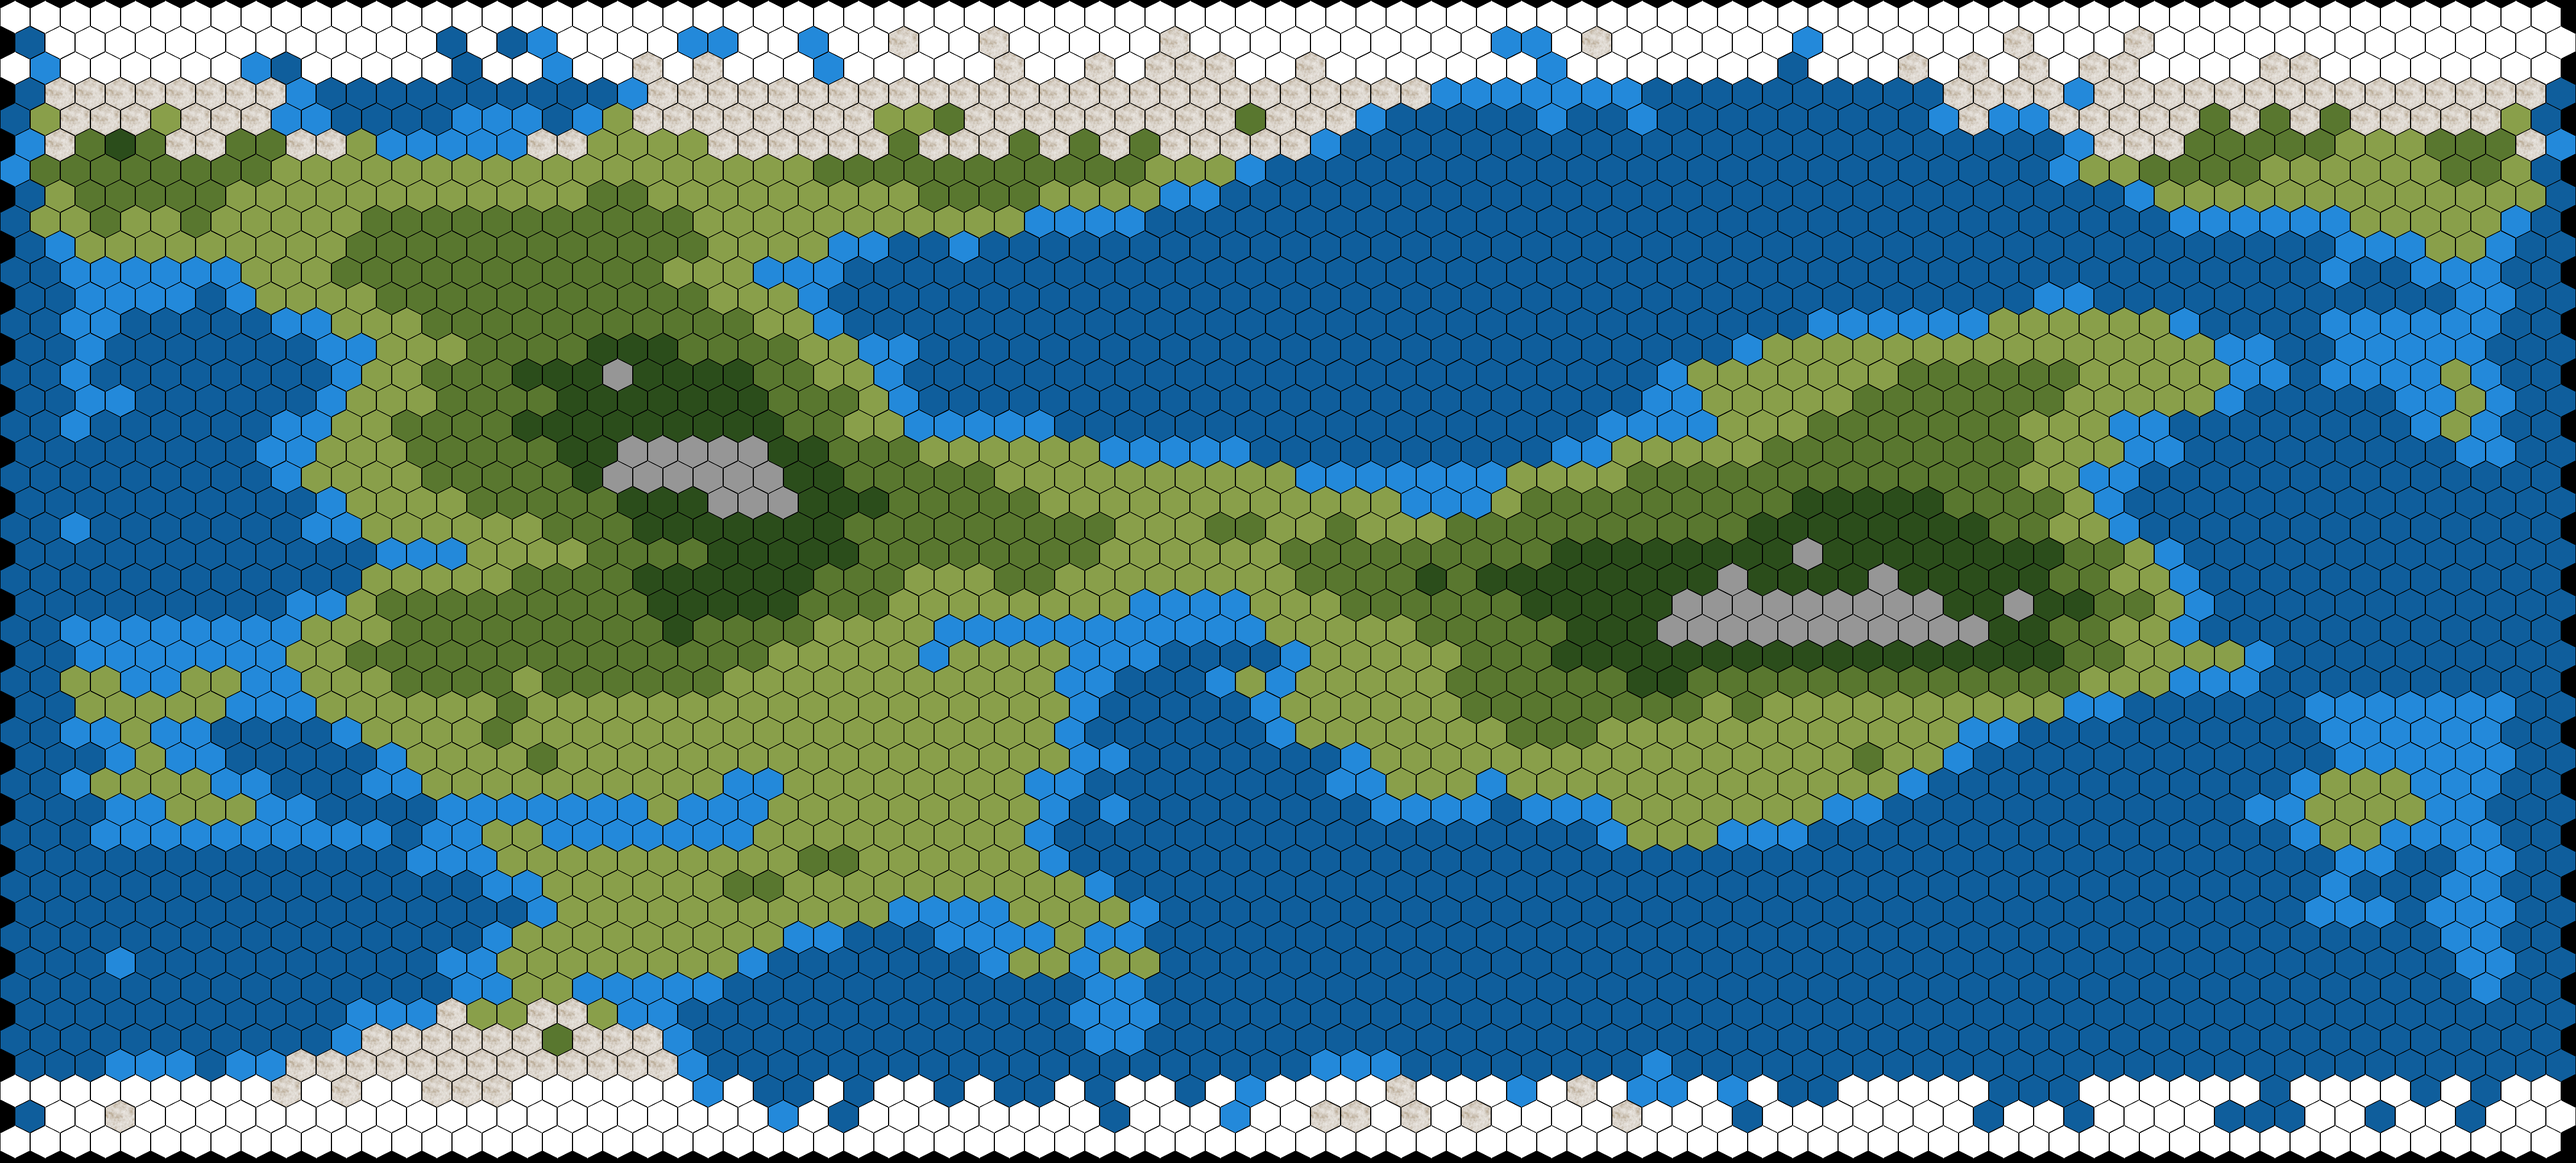
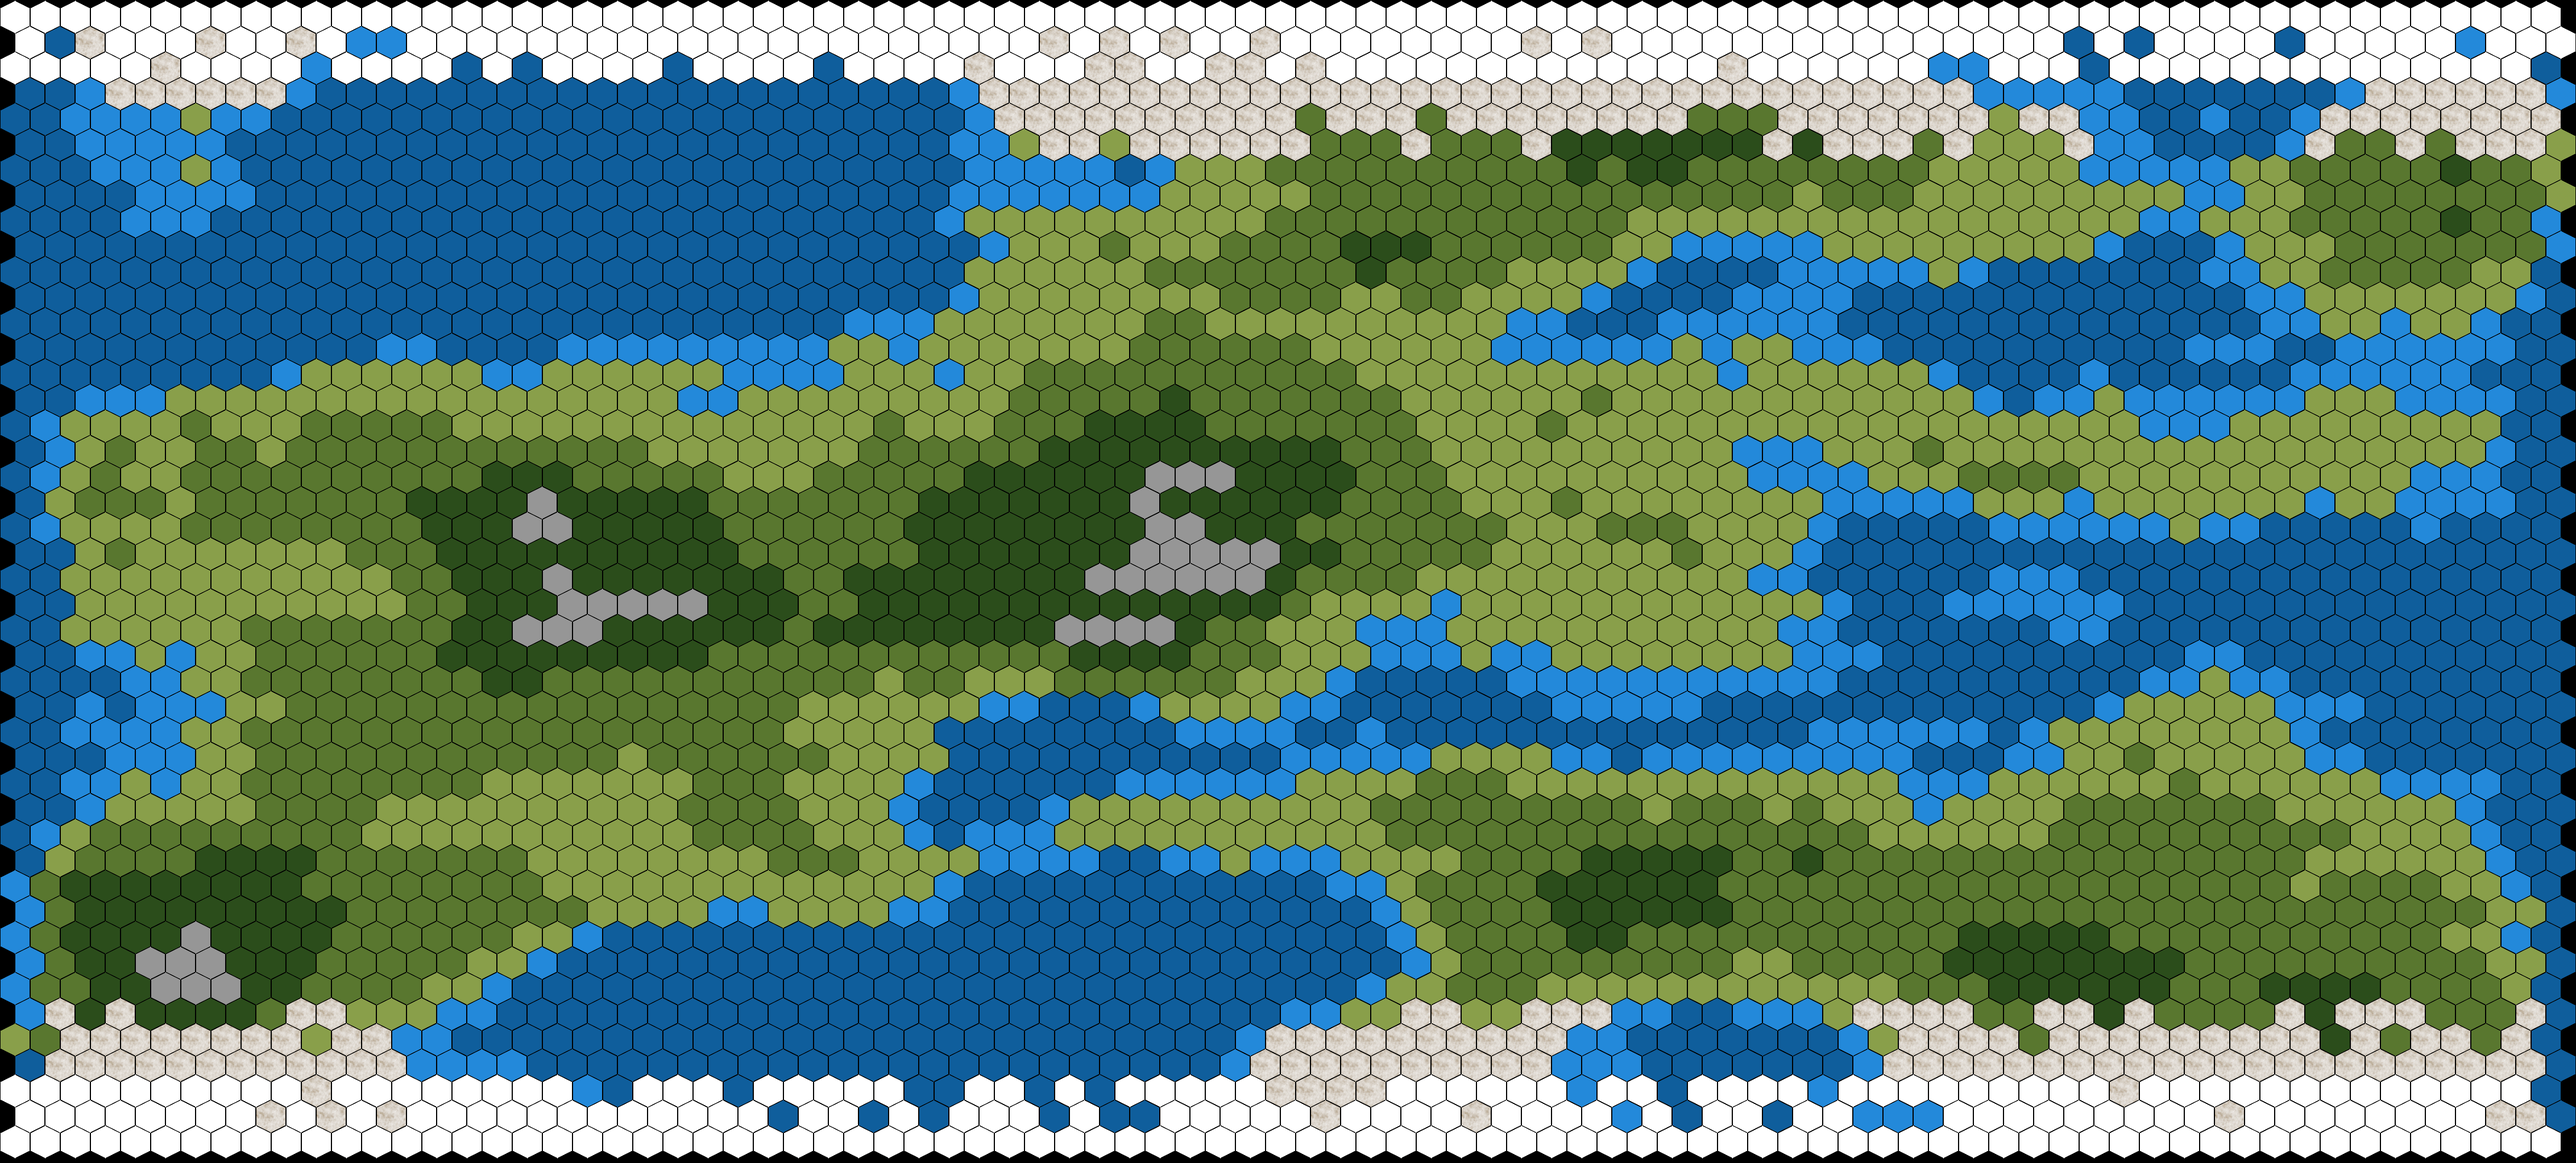
made a few minor edits

diff --git a/map.py b/map.py
@@ -16,7 +16,7 @@ class TileImages:
             "ice": self._load("ice.png"),
             "tundra": self._load("tundra.png"),
             "high_mountain": self._load("high_mountain.png"),
-            "mountain": self._load("mountans.png"),
+            "mountain": self._load("mountains.png"),
             "hills": self._load("hills.png"),
             "plains": self._load("plains.png"),
             "ocean": self._load("water.png"),
